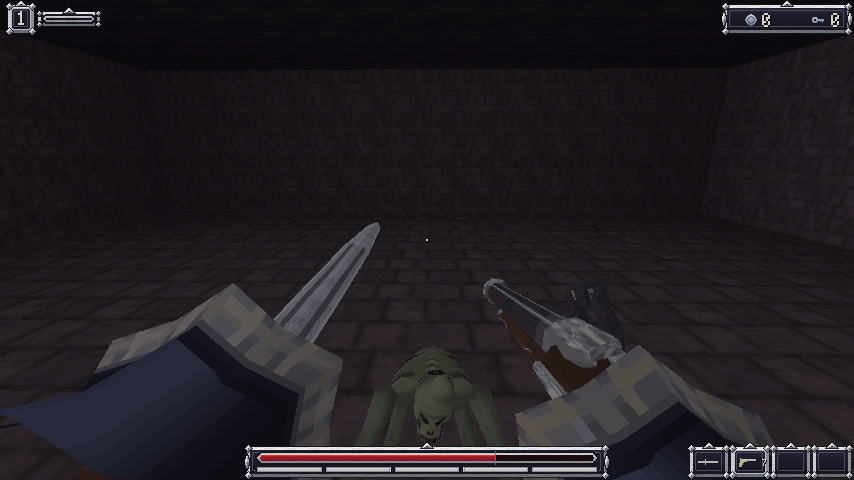
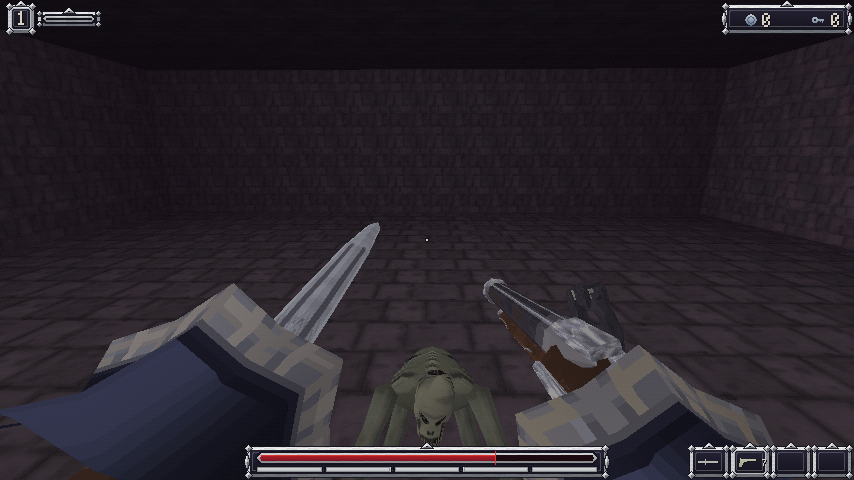
fix(hud): Abdunkeln nach Treffer erhält das Alpha des Bildes
Die Abdunkel-Fläche wurde mit der Standard-Mischung in das kleine Bild
gezeichnet. Dabei sank auch dessen Alpha (197 statt 255): Das Schwarz
dahinter schien durch, der Treffer wirkte dunkler als erlaubt, und das
Foto hud-hit.png war halb durchsichtig. Jetzt mischt eine eigene
Mischung nur die Farbe und lässt das Alpha des Ziels stehen.

- Neuer Test: Alle Fotos der Bildrand-Effekte sind durchgehend deckend
  (kleiner PNG-Leser im Testprojekt). Mit dem alten Foto rot.
- hud-hit-Fotos neu aufgenommen.
- Neue Tests für die Review-Mutationen E1, E2, E7, E4, E5 sowie die
  Hinweise E11 und E13: gleichmäßiges Abklingen über die ganze
  Trefferzeit, keine Überkreuzung von Treffer und Gold-Schein, Puls
  beginnt nach Erholung neu, quadratisches Ausdünnen, Mindestbreite des
  Randbands, gerundete Schleierbreite.

diff --git a/tests/SilverAndAsh.Core.Tests/Photos/EdgeEffectPhotoTests.cs b/tests/SilverAndAsh.Core.Tests/Photos/EdgeEffectPhotoTests.cs
@@ -1,0 +1,124 @@
+using System.Buffers.Binary;
+using System.IO.Compression;
+
+namespace SilverAndAsh.Core.Tests.Photos;
+
+/// <summary>
+/// The photos of the effects at the edge of the picture (issue #370) are fully opaque. The darkening after a hit once
+/// lowered the alpha of the small picture with the default blending, so the black behind it showed through: the hit
+/// looked darker than allowed and the photo was half transparent (review of #385). Raylib needs a window, so this
+/// checks what the window wrote.
+/// </summary>
+public class EdgeEffectPhotoTests
+{
+    private const string Folder = "design/proben/grafik/bildrand-effekte";
+
+    private static string[] PhotoNames() =>
+        Directory.GetFiles(RepositoryFiles.Find(Folder), "*.png")
+            .Select(Path.GetFileName)
+            .OfType<string>()
+            .OrderBy(name => name, StringComparer.Ordinal)
+            .ToArray();
+
+    public static TheoryData<string> Photos() => new(PhotoNames());
+
+    [Fact]
+    public void There_is_a_photo_of_the_hit()
+    {
+        Assert.Contains("hud-hit.png", PhotoNames());
+        Assert.Contains("hud-hit-screen.png", PhotoNames());
+    }
+
+    [Theory]
+    [MemberData(nameof(Photos))]
+    public void Every_pixel_of_the_photo_is_opaque(string name)
+    {
+        var (width, height, alphas) = Png.ReadAlpha(Path.Combine(RepositoryFiles.Find(Folder), name));
+
+        Assert.True(width > 0 && height > 0);
+        var see = Array.FindIndex(alphas, a => a != 255);
+        Assert.True(see < 0, see < 0 ? string.Empty : $"pixel {see % width},{see / width} has alpha {alphas[see]}");
+    }
+
+    /// <summary>Just enough of PNG to read the alpha of 8-bit RGB and RGBA pictures without interlacing.</summary>
+    private static class Png
+    {
+        public static (int Width, int Height, byte[] Alphas) ReadAlpha(string path)
+        {
+            var bytes = File.ReadAllBytes(path);
+            var at = 8; // signature
+            int width = 0, height = 0, colorType = -1;
+            using var packed = new MemoryStream();
+            while (at < bytes.Length)
+            {
+                var length = BinaryPrimitives.ReadInt32BigEndian(bytes.AsSpan(at));
+                var type = System.Text.Encoding.ASCII.GetString(bytes, at + 4, 4);
+                var data = bytes.AsSpan(at + 8, length);
+                if (type == "IHDR")
+                {
+                    width = BinaryPrimitives.ReadInt32BigEndian(data);
+                    height = BinaryPrimitives.ReadInt32BigEndian(data[4..]);
+                    Assert.Equal(8, data[8]);
+                    colorType = data[9];
+                    Assert.Equal(0, data[12]);
+                }
+                else if (type == "IDAT")
+                {
+                    packed.Write(data);
+                }
+
+                at += 12 + length;
+            }
+
+            Assert.True(colorType is 2 or 6, $"colour type {colorType} is not read here");
+            var channels = colorType == 6 ? 4 : 3;
+            var stride = width * channels;
+            var raw = new byte[height * (stride + 1)];
+            packed.Position = 0;
+            using (var zlib = new ZLibStream(packed, CompressionMode.Decompress))
+            {
+                zlib.ReadExactly(raw);
+            }
+
+            var alphas = new byte[width * height];
+            var previous = new byte[stride];
+            var line = new byte[stride];
+            for (var y = 0; y < height; y++)
+            {
+                var filter = raw[y * (stride + 1)];
+                for (var i = 0; i < stride; i++)
+                {
+                    var value = raw[(y * (stride + 1)) + 1 + i];
+                    var left = i >= channels ? line[i - channels] : 0;
+                    var up = previous[i];
+                    var upLeft = i >= channels ? previous[i - channels] : 0;
+                    line[i] = (byte)(value + filter switch
+                    {
+                        0 => 0,
+                        1 => left,
+                        2 => up,
+                        3 => (left + up) / 2,
+                        4 => Paeth(left, up, upLeft),
+                        _ => throw new InvalidDataException($"filter {filter}"),
+                    });
+                }
+
+                for (var x = 0; x < width; x++)
+                {
+                    alphas[(y * width) + x] = channels == 4 ? line[(x * 4) + 3] : (byte)255;
+                }
+
+                (previous, line) = (line, previous);
+            }
+
+            return (width, height, alphas);
+        }
+
+        private static int Paeth(int a, int b, int c)
+        {
+            var p = a + b - c;
+            int pa = Math.Abs(p - a), pb = Math.Abs(p - b), pc = Math.Abs(p - c);
+            return pa <= pb && pa <= pc ? a : pb <= pc ? b : c;
+        }
+    }
+}

diff --git a/tests/SilverAndAsh.Core.Tests/Presentation/ScreenEffectsTests.cs b/tests/SilverAndAsh.Core.Tests/Presentation/ScreenEffectsTests.cs
@@ -48,6 +48,67 @@ public class ScreenEffectsTests
     }
 
     [Fact]
+    public void The_darkening_fades_evenly_over_the_whole_hit_time()
+    {
+        var player = FreshPlayer();
+        var effects = new ScreenEffects(player.Id);
+        var hitTicks = SimulationClock.SecondsToTicks(ScreenEffects.HitSeconds);
+
+        effects.OnEvent(new PlayerHit(player.Id, 5));
+        for (var tick = 1; tick < hitTicks; tick++)
+        {
+            effects.Tick(player);
+            Assert.Equal(ScreenEffects.HitDarkness * (hitTicks - tick) / hitTicks, effects.Darkness, 4);
+        }
+
+        // Still a little dark on the last tick of the hit time, gone right after.
+        Assert.True(effects.Darkness > 0f);
+        effects.Tick(player);
+        Assert.Equal(0f, effects.Darkness);
+    }
+
+    [Fact]
+    public void A_hit_starts_no_gold_shine_and_a_level_up_no_darkening()
+    {
+        var player = FreshPlayer();
+        var hit = new ScreenEffects(player.Id);
+        var levelUp = new ScreenEffects(player.Id);
+
+        hit.OnEvent(new PlayerHit(player.Id, 5));
+        levelUp.OnEvent(new LevelUp(player.Id, 2));
+        hit.Tick(player);
+        levelUp.Tick(player);
+
+        Assert.True(hit.Darkness > 0f);
+        Assert.Equal(0f, hit.SkillPoint);
+        Assert.True(levelUp.SkillPoint > 0f);
+        Assert.Equal(0f, levelUp.Darkness);
+    }
+
+    [Fact]
+    public void After_healing_the_red_edge_starts_again_at_its_weakest()
+    {
+        var player = FreshPlayer();
+        var effects = new ScreenEffects(player.Id);
+        var beat = SimulationClock.SecondsToTicks(ScreenEffects.LowLifePulseSeconds);
+        var events = new List<GameEvent>();
+
+        // First time at low life: run to the strongest point of the beat.
+        player.TakeDamage(player.MaxHealth - 1, events);
+        Run(effects, player, (beat / 2) + 1);
+        Assert.True(effects.LowLife > ScreenEffects.LowLifeMax - 0.01f);
+
+        player.Heal(player.MaxHealth, events);
+        effects.Tick(player);
+        Assert.Equal(0f, effects.LowLife);
+
+        // Second time: the pulse begins anew, not where it stopped.
+        player.TakeDamage(player.MaxHealth - 1, events);
+        effects.Tick(player);
+        Assert.Equal(ScreenEffects.LowLifeMin, effects.LowLife, 4);
+    }
+
+    [Fact]
     public void A_hit_on_another_player_or_without_damage_does_nothing()
     {
         var player = FreshPlayer();
@@ -166,8 +227,9 @@ public class ScreenEffectsTests
             }
         }
 
-        // The band is a small share of the picture: the target in the middle is far from it.
+        // The band is a small share of the picture: the target in the middle is far from it. But wide enough to be seen.
         Assert.True(band < height / 4);
+        Assert.True(band > height / 10, $"band {band} at height {height}");
     }
 
     [Fact]
@@ -182,6 +244,23 @@ public class ScreenEffectsTests
         Assert.Equal(Width, OnInRow(0));
         Assert.True(OnInRow(band / 2) < OnInRow(1));
         Assert.True(OnInRow(band / 2) > 0);
+    }
+
+    [Fact]
+    public void Halfway_into_the_band_only_about_a_quarter_of_the_pixels_are_set()
+    {
+        // The cover falls with the square of the way inwards: at half the band (1 - 1/2)^2 = 1/4, not 1/2.
+        const int Width = 854;
+        const int Height = 480;
+        var band = ScreenEffects.EdgeBandPixels(Height);
+        var middle = Enumerable.Range(band, Width - (2 * band)).ToArray();
+
+        // Four lines, one whole period of the 4 x 4 pattern: a single line holds only four of its 16 thresholds.
+        var rows = Enumerable.Range((band / 2) - 2, Dithering.PatternSize).ToArray();
+        var on = rows.Sum(y => middle.Count(x => ScreenEffects.IsEdgePixelOn(x, y, Width, Height, 1f)));
+        var expected = rows.Sum(y => MathF.Pow(1f - ((float)y / band), 2) * middle.Length);
+
+        Assert.InRange(on, expected * 0.8f, expected * 1.2f);
     }
 
     [Fact]

diff --git a/src/SilverAndAsh.Game/Rendering/ScreenEffectsView.cs b/src/SilverAndAsh.Game/Rendering/ScreenEffectsView.cs
@@ -17,6 +17,13 @@ internal sealed class ScreenEffectsView : IDisposable
     private static readonly Color SkillPointColor = new(214, 170, 64, 255);
     private static readonly Color DarkColor = new(16, 11, 20, 255);
 
+    // OpenGL blending values; Raylib-cs takes them as plain numbers.
+    private const int GlZero = 0;
+    private const int GlOne = 1;
+    private const int GlSrcAlpha = 0x0302;
+    private const int GlOneMinusSrcAlpha = 0x0303;
+    private const int GlFuncAdd = 0x8006;
+
     private Color[] _pixels = [];
     private Texture2D _texture;
     private int _width;
@@ -31,7 +38,12 @@ internal sealed class ScreenEffectsView : IDisposable
         ArgumentNullException.ThrowIfNull(effects);
         if (effects.Darkness > 0f)
         {
+            // Darken only the colour and keep the alpha of the small picture: the default blending would lower it too,
+            // the black behind the picture would then show through and the hit would look darker than allowed.
+            Rlgl.SetBlendFactorsSeparate(GlSrcAlpha, GlOneMinusSrcAlpha, GlZero, GlOne, GlFuncAdd, GlFuncAdd);
+            Raylib.BeginBlendMode(BlendMode.CustomSeparate);
             Raylib.DrawRectangle(0, 0, width, height, DarkColor with { A = (byte)MathF.Round(255f * effects.Darkness) });
+            Raylib.EndBlendMode();
         }
 
         if (effects.LowLife <= 0f && effects.SkillPoint <= 0f)

diff --git a/tests/SilverAndAsh.Core.Tests/Presentation/HudLayoutTests.cs b/tests/SilverAndAsh.Core.Tests/Presentation/HudLayoutTests.cs
@@ -479,6 +479,18 @@ public class HudLayoutTests
     }
 
     [Fact]
+    public void The_reload_veil_width_is_rounded_not_cut_off()
+    {
+        // 32 * 0.8 = 25.6: rounded 26, cut off 25. The example must tell the two apart.
+        var exact = HudLayout.VeilWidth * 0.8f;
+        Assert.NotEqual((int)exact, (int)MathF.Round(exact));
+
+        var veil = HudLayout.ReloadVeil(100, HudLayout.BottomBaseline, 0.2f);
+
+        Assert.Equal((int)MathF.Round(exact), veil!.Value.Width);
+    }
+
+    [Fact]
     public void The_reload_veil_takes_its_look_from_the_table()
     {
         using var json = System.Text.Json.JsonDocument.Parse(
